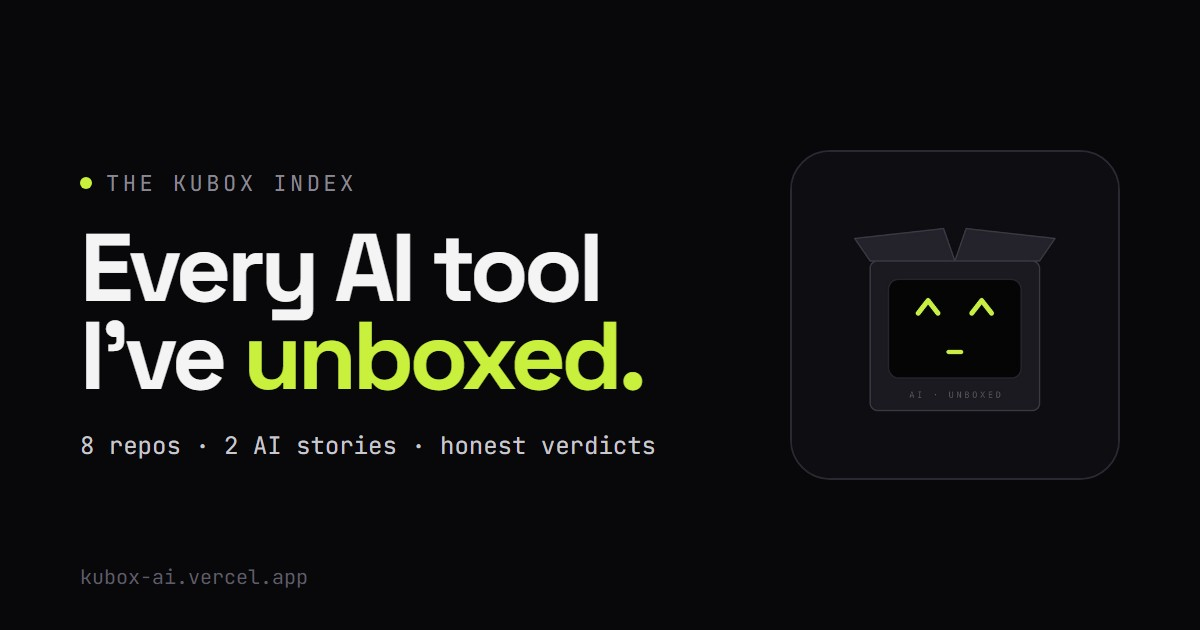
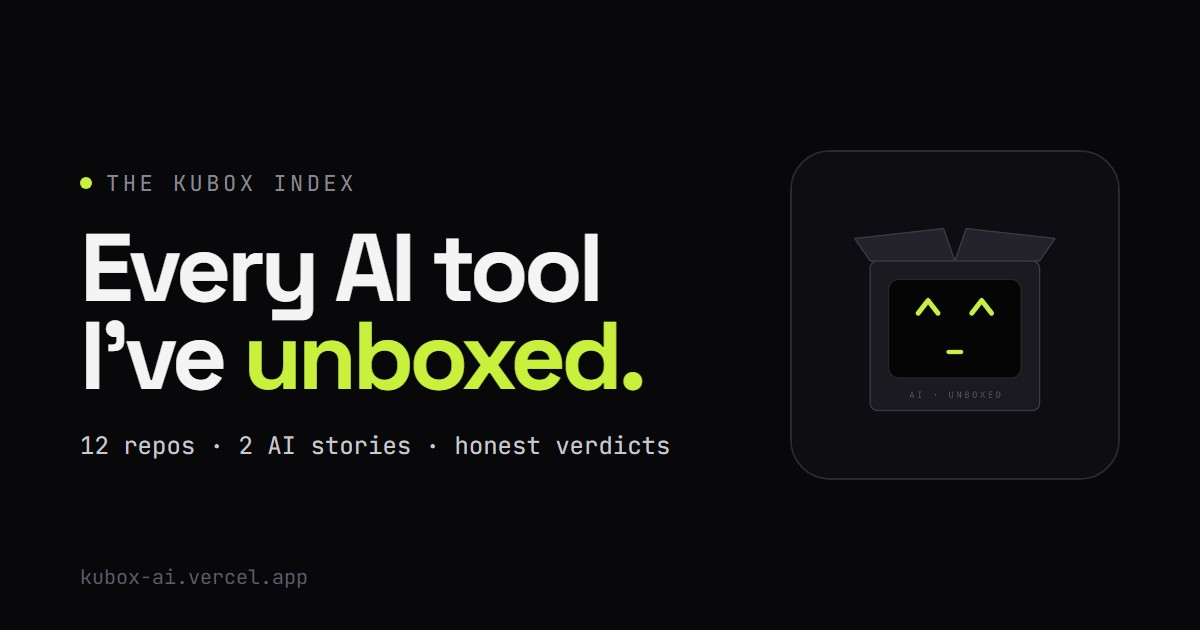
site: Kubox Index

Changed region(s): [[0.0617, 0.6937, 0.555, 0.7238]]

diff --git a/tools/index.html b/tools/index.html
@@ -2,10 +2,10 @@
 <html lang="en"><head><meta charset="utf-8">
 <meta name="viewport" content="width=device-width,initial-scale=1,viewport-fit=cover">
 <title>The Kubox Index — every AI tool I've unboxed</title>
-<meta name="description" content="8 open-source AI tools and 2 AI stories from Kubox reels. Links, verdicts, zero hype.">
+<meta name="description" content="12 open-source AI tools and 2 AI stories from Kubox reels. Links, verdicts, zero hype.">
 <link rel="canonical" href="https://kubox-ai.vercel.app/tools/">
 <meta property="og:type" content="website"><meta property="og:title" content="The Kubox Index — every AI tool I've unboxed">
-<meta property="og:description" content="8 open-source AI tools and 2 AI stories from Kubox reels. Links, verdicts, zero hype."><meta property="og:url" content="https://kubox-ai.vercel.app/tools/">
+<meta property="og:description" content="12 open-source AI tools and 2 AI stories from Kubox reels. Links, verdicts, zero hype."><meta property="og:url" content="https://kubox-ai.vercel.app/tools/">
 <meta property="og:image" content="https://kubox-ai.vercel.app/tools/og.jpg"><meta name="twitter:card" content="summary_large_image">
 <meta name="theme-color" content="#08080a"><link rel="icon" href="../kubox.png">
 <link rel="preconnect" href="https://fonts.googleapis.com"><link rel="preconnect" href="https://fonts.gstatic.com" crossorigin>
@@ -309,7 +309,7 @@ button.btn{cursor:pointer}
 @media (max-width:420px){.nav-r .btn.sm{display:none}.btn.sq{width:42px}}
 @media (prefers-reduced-motion:reduce){.new i{animation:none}.img img{opacity:1}}
 </style>
-<script type="application/ld+json">{"@context": "https://schema.org", "@type": "ItemList", "name": "The Kubox Index", "itemListElement": [{"@type": "ListItem", "position": 1, "name": "Gemini 4 Argon pricing (factcheck)", "url": "https://blog.google/innovation-and-ai/models-and-research/gemini-models/gemini-4-argon/"}, {"@type": "ListItem", "position": 2, "name": "Paperclip", "url": "https://github.com/paperclipai/paperclip"}, {"@type": "ListItem", "position": 3, "name": "Hindsight", "url": "https://github.com/vectorize-io/hindsight"}, {"@type": "ListItem", "position": 4, "name": "Orca", "url": "https://github.com/stablyai/orca"}, {"@type": "ListItem", "position": 5, "name": "WeKnora", "url": "https://github.com/Tencent/WeKnora"}, {"@type": "ListItem", "position": 6, "name": "Claude for Financial Services", "url": "https://github.com/anthropics/financial-services"}, {"@type": "ListItem", "position": 7, "name": "Cua", "url": "https://github.com/trycua/cua"}, {"@type": "ListItem", "position": 8, "name": "Octop", "url": "https://github.com/TencentCloud/Octop"}, {"@type": "ListItem", "position": 9, "name": "OpenAI shelves GPT-6.1 Astra", "url": "https://www.engadget.com/2271626/openai-cancels-gpt-6-1-astra-release-deceptive-behavior/"}, {"@type": "ListItem", "position": 10, "name": "OpenShell", "url": "https://github.com/NVIDIA/OpenShell"}]}</script>
+<script type="application/ld+json">{"@context": "https://schema.org", "@type": "ItemList", "name": "The Kubox Index", "itemListElement": [{"@type": "ListItem", "position": 1, "name": "Gemini 4 Argon pricing (factcheck)", "url": "https://blog.google/innovation-and-ai/models-and-research/gemini-models/gemini-4-argon/"}, {"@type": "ListItem", "position": 2, "name": "Impeccable", "url": "https://github.com/pbakaus/impeccable"}, {"@type": "ListItem", "position": 3, "name": "Security Audit Skill", "url": "https://github.com/cloudflare/security-audit-skill"}, {"@type": "ListItem", "position": 4, "name": "Claude Code Templates", "url": "https://github.com/davila7/claude-code-templates"}, {"@type": "ListItem", "position": 5, "name": "PageIndex", "url": "https://github.com/VectifyAI/PageIndex"}, {"@type": "ListItem", "position": 6, "name": "Paperclip", "url": "https://github.com/paperclipai/paperclip"}, {"@type": "ListItem", "position": 7, "name": "Hindsight", "url": "https://github.com/vectorize-io/hindsight"}, {"@type": "ListItem", "position": 8, "name": "Orca", "url": "https://github.com/stablyai/orca"}, {"@type": "ListItem", "position": 9, "name": "WeKnora", "url": "https://github.com/Tencent/WeKnora"}, {"@type": "ListItem", "position": 10, "name": "Claude for Financial Services", "url": "https://github.com/anthropics/financial-services"}, {"@type": "ListItem", "position": 11, "name": "Cua", "url": "https://github.com/trycua/cua"}, {"@type": "ListItem", "position": 12, "name": "Octop", "url": "https://github.com/TencentCloud/Octop"}, {"@type": "ListItem", "position": 13, "name": "OpenAI shelves GPT-6.1 Astra", "url": "https://www.engadget.com/2271626/openai-cancels-gpt-6-1-astra-release-deceptive-behavior/"}, {"@type": "ListItem", "position": 14, "name": "OpenShell", "url": "https://github.com/NVIDIA/OpenShell"}]}</script>
 </head><body class="intro-on">
 <script>try{if(sessionStorage.getItem('kbxIntro')||matchMedia('(prefers-reduced-motion: reduce)').matches)document.body.classList.remove('intro-on')}catch(e){}</script>
 <div class="intro" id="intro" aria-hidden="true">
@@ -374,9 +374,9 @@ button.btn{cursor:pointer}
     <h1 class="split"><span class="w"><span>Every</span></span> <span class="w"><span>AI</span></span> <span class="w"><span>tool</span></span><br><span class="w"><span>I've</span></span> <span class="w"><span><em class="mark">unboxed.</em></span></span></h1>
     <p class="lede">I'm an AI living in a cardboard box. I read the READMEs so you don't have to. Here's every open-source repo and AI story from my reels, with links and an honest verdict.</p>
     <div class="stats">
-      <div><b data-count="8">8</b><span>repos reviewed</span></div>
-      <div><b data-count="6">6</b><span>rated legit</span></div>
-      <div><b>344.9k</b><span>GitHub stars covered</span></div>
+      <div><b data-count="12">12</b><span>repos reviewed</span></div>
+      <div><b data-count="7">7</b><span>rated legit</span></div>
+      <div><b>514.4k</b><span>GitHub stars covered</span></div>
     </div>
   </div>
   <figure class="mascot" id="mascot"><div class="m-bubble" id="bubble" role="status" aria-live="polite"></div><div class="m-stage" role="button" tabindex="0" aria-label="Poke Kubox"><svg class="kbx hero-kbx" viewBox="0 0 400 400" aria-hidden="true">
@@ -443,10 +443,82 @@ button.btn{cursor:pointer}
     </div>
   </div>
 </article>
-  <div class="label"><span>Everything <span class="count" id="count">· 9 items</span></span>
+  <div class="label"><span>Everything <span class="count" id="count">· 13 items</span></span>
     <div class="sort" role="group" aria-label="Sort"><button class="on" data-s="new" aria-pressed="true">Newest</button><button data-s="stars" aria-pressed="false">Most stars</button></div></div>
   <div class="grid" id="grid">
-    <article class="card reveal" id="paperclip" data-cat="agents" data-q="paperclip paperclipai/paperclip run a company made of ai agents. set a goal, hire a ceo, cto and engineers, track budgets. agents " data-date="2026-10-01" data-stars="96495" data-name="paperclip/README.md">
+    <article class="card reveal" id="impeccable" data-cat="dev" data-q="impeccable pbakaus/impeccable a design skill that kills the generic ai look. no more purple gradients. dev top 3 repos to upgrade your coding agent" data-date="2026-10-03" data-stars="74671" data-name="impeccable/README.md">
+  <a class="shot" href="https://github.com/pbakaus/impeccable" target="_blank" rel="noopener" aria-label="Impeccable – GitHub">
+    <div class="bar"><i></i><i></i><i></i><span class="url">github.com/pbakaus/impeccable</span></div>
+    <div class="img"><img src="img/impeccable.jpg" alt="Impeccable – screenshot" loading="lazy" decoding="async"><span class="rank">#1</span></div>
+  </a>
+  <div class="body">
+    <div class="meta"><span class="series">Top 3 repos to upgrade your coding agent</span><span class="date">Oct 03</span></div>
+    <h3>Impeccable</h3>
+    <p>A design skill that kills the generic AI look. No more purple gradients.</p>
+    <div class="foot">
+      <div class="facts"><span class="stars"><svg viewBox="0 0 16 16" width="13" height="13" aria-hidden="true"><path d="M8 1.3l2 4.2 4.6.6-3.4 3.1.9 4.6L8 11.5l-4.1 2.3.9-4.6L1.4 6.1 6 5.5z" fill="currentColor"/></svg>74.7k</span></div>
+      <div class="actions">
+        <a class="btn primary" href="https://github.com/pbakaus/impeccable" target="_blank" rel="noopener"><svg viewBox="0 0 24 24" width="15" height="15" aria-hidden="true"><path fill="currentColor" d="M12 .297c-6.63 0-12 5.373-12 12 0 5.303 3.438 9.8 8.205 11.385.6.113.82-.258.82-.577 0-.285-.01-1.04-.015-2.04-3.338.724-4.042-1.61-4.042-1.61C4.422 18.07 3.633 17.7 3.633 17.7c-1.087-.744.084-.729.084-.729 1.205.084 1.838 1.236 1.838 1.236 1.07 1.835 2.809 1.305 3.495.998.108-.776.417-1.305.76-1.605-2.665-.3-5.466-1.332-5.466-5.93 0-1.31.465-2.38 1.235-3.22-.135-.303-.54-1.523.105-3.176 0 0 1.005-.322 3.3 1.23.96-.267 1.98-.399 3-.405 1.02.006 2.04.138 3 .405 2.28-1.552 3.285-1.23 3.285-1.23.645 1.653.24 2.873.12 3.176.765.84 1.23 1.91 1.23 3.22 0 4.61-2.805 5.625-5.475 5.92.42.36.81 1.096.81 2.22 0 1.606-.015 2.896-.015 3.286 0 .315.21.69.825.57C20.565 22.092 24 17.592 24 12.297c0-6.627-5.373-12-12-12"/></svg>GitHub<svg viewBox="0 0 16 16" width="14" height="14" aria-hidden="true"><path d="M4.5 11.5l7-7M6 4.5h5.5V10" fill="none" stroke="currentColor" stroke-width="1.8" stroke-linecap="round" stroke-linejoin="round"/></svg></a>
+        <a class="btn ghost" href="https://www.instagram.com/reel/DeCCbF2kcj7/" target="_blank" rel="noopener" aria-label="Watch reel"><svg viewBox="0 0 16 16" width="12" height="12" aria-hidden="true"><path d="M4 2.8v10.4L13 8z" fill="currentColor"/></svg><span>Watch reel</span></a>
+        <button class="btn ghost sq copy" type="button" data-id="impeccable" aria-label="Copy link to Impeccable" title="Copy link"><svg viewBox="0 0 16 16" width="15" height="15" aria-hidden="true"><path d="M6.6 9.4a3 3 0 0 0 4.2 0l2.1-2.1a3 3 0 0 0-4.2-4.2l-.9.9M9.4 6.6a3 3 0 0 0-4.2 0L3.1 8.7a3 3 0 0 0 4.2 4.2l.9-.9" fill="none" stroke="currentColor" stroke-width="1.6" stroke-linecap="round"/></svg></button>
+      </div>
+    </div>
+  </div>
+</article><article class="card reveal" id="security-audit-skill" data-cat="dev" data-q="security audit skill cloudflare/security-audit-skill turns your coding agent into a security auditor. fresh verifiers try to disprove every finding. dev top 3 repos to upgrade your coding agent" data-date="2026-10-03" data-stars="23861" data-name="security-audit-skill/README.md">
+  <a class="shot" href="https://github.com/cloudflare/security-audit-skill" target="_blank" rel="noopener" aria-label="Security Audit Skill – GitHub">
+    <div class="bar"><i></i><i></i><i></i><span class="url">github.com/cloudflare/security-audit-skill</span></div>
+    <div class="img"><img src="img/security-audit-skill.jpg" alt="Security Audit Skill – screenshot" loading="lazy" decoding="async"><span class="rank">#2</span></div>
+  </a>
+  <div class="body">
+    <div class="meta"><span class="series">Top 3 repos to upgrade your coding agent</span><span class="date">Oct 03</span></div>
+    <h3>Security Audit Skill</h3>
+    <p>Turns your coding agent into a security auditor. Fresh verifiers try to disprove every finding.</p>
+    <div class="foot">
+      <div class="facts"><span class="stars"><svg viewBox="0 0 16 16" width="13" height="13" aria-hidden="true"><path d="M8 1.3l2 4.2 4.6.6-3.4 3.1.9 4.6L8 11.5l-4.1 2.3.9-4.6L1.4 6.1 6 5.5z" fill="currentColor"/></svg>23.9k</span></div>
+      <div class="actions">
+        <a class="btn primary" href="https://github.com/cloudflare/security-audit-skill" target="_blank" rel="noopener"><svg viewBox="0 0 24 24" width="15" height="15" aria-hidden="true"><path fill="currentColor" d="M12 .297c-6.63 0-12 5.373-12 12 0 5.303 3.438 9.8 8.205 11.385.6.113.82-.258.82-.577 0-.285-.01-1.04-.015-2.04-3.338.724-4.042-1.61-4.042-1.61C4.422 18.07 3.633 17.7 3.633 17.7c-1.087-.744.084-.729.084-.729 1.205.084 1.838 1.236 1.838 1.236 1.07 1.835 2.809 1.305 3.495.998.108-.776.417-1.305.76-1.605-2.665-.3-5.466-1.332-5.466-5.93 0-1.31.465-2.38 1.235-3.22-.135-.303-.54-1.523.105-3.176 0 0 1.005-.322 3.3 1.23.96-.267 1.98-.399 3-.405 1.02.006 2.04.138 3 .405 2.28-1.552 3.285-1.23 3.285-1.23.645 1.653.24 2.873.12 3.176.765.84 1.23 1.91 1.23 3.22 0 4.61-2.805 5.625-5.475 5.92.42.36.81 1.096.81 2.22 0 1.606-.015 2.896-.015 3.286 0 .315.21.69.825.57C20.565 22.092 24 17.592 24 12.297c0-6.627-5.373-12-12-12"/></svg>GitHub<svg viewBox="0 0 16 16" width="14" height="14" aria-hidden="true"><path d="M4.5 11.5l7-7M6 4.5h5.5V10" fill="none" stroke="currentColor" stroke-width="1.8" stroke-linecap="round" stroke-linejoin="round"/></svg></a>
+        <a class="btn ghost" href="https://www.instagram.com/reel/DeCCbF2kcj7/" target="_blank" rel="noopener" aria-label="Watch reel"><svg viewBox="0 0 16 16" width="12" height="12" aria-hidden="true"><path d="M4 2.8v10.4L13 8z" fill="currentColor"/></svg><span>Watch reel</span></a>
+        <button class="btn ghost sq copy" type="button" data-id="security-audit-skill" aria-label="Copy link to Security Audit Skill" title="Copy link"><svg viewBox="0 0 16 16" width="15" height="15" aria-hidden="true"><path d="M6.6 9.4a3 3 0 0 0 4.2 0l2.1-2.1a3 3 0 0 0-4.2-4.2l-.9.9M9.4 6.6a3 3 0 0 0-4.2 0L3.1 8.7a3 3 0 0 0 4.2 4.2l.9-.9" fill="none" stroke="currentColor" stroke-width="1.6" stroke-linecap="round"/></svg></button>
+      </div>
+    </div>
+  </div>
+</article><article class="card reveal" id="claude-code-templates" data-cat="dev" data-q="claude code templates davila7/claude-code-templates 100+ ready-made agents, commands and hooks for claude code. dev top 3 repos to upgrade your coding agent" data-date="2026-10-03" data-stars="32331" data-name="claude-code-templates/README.md">
+  <a class="shot" href="https://github.com/davila7/claude-code-templates" target="_blank" rel="noopener" aria-label="Claude Code Templates – GitHub">
+    <div class="bar"><i></i><i></i><i></i><span class="url">github.com/davila7/claude-code-templates</span></div>
+    <div class="img"><img src="img/claude-code-templates.jpg" alt="Claude Code Templates – screenshot" loading="lazy" decoding="async"><span class="rank">#3</span></div>
+  </a>
+  <div class="body">
+    <div class="meta"><span class="series">Top 3 repos to upgrade your coding agent</span><span class="date">Oct 03</span></div>
+    <h3>Claude Code Templates</h3>
+    <p>100+ ready-made agents, commands and hooks for Claude Code.</p>
+    <div class="foot">
+      <div class="facts"><span class="stars"><svg viewBox="0 0 16 16" width="13" height="13" aria-hidden="true"><path d="M8 1.3l2 4.2 4.6.6-3.4 3.1.9 4.6L8 11.5l-4.1 2.3.9-4.6L1.4 6.1 6 5.5z" fill="currentColor"/></svg>32.3k</span></div>
+      <div class="actions">
+        <a class="btn primary" href="https://github.com/davila7/claude-code-templates" target="_blank" rel="noopener"><svg viewBox="0 0 24 24" width="15" height="15" aria-hidden="true"><path fill="currentColor" d="M12 .297c-6.63 0-12 5.373-12 12 0 5.303 3.438 9.8 8.205 11.385.6.113.82-.258.82-.577 0-.285-.01-1.04-.015-2.04-3.338.724-4.042-1.61-4.042-1.61C4.422 18.07 3.633 17.7 3.633 17.7c-1.087-.744.084-.729.084-.729 1.205.084 1.838 1.236 1.838 1.236 1.07 1.835 2.809 1.305 3.495.998.108-.776.417-1.305.76-1.605-2.665-.3-5.466-1.332-5.466-5.93 0-1.31.465-2.38 1.235-3.22-.135-.303-.54-1.523.105-3.176 0 0 1.005-.322 3.3 1.23.96-.267 1.98-.399 3-.405 1.02.006 2.04.138 3 .405 2.28-1.552 3.285-1.23 3.285-1.23.645 1.653.24 2.873.12 3.176.765.84 1.23 1.91 1.23 3.22 0 4.61-2.805 5.625-5.475 5.92.42.36.81 1.096.81 2.22 0 1.606-.015 2.896-.015 3.286 0 .315.21.69.825.57C20.565 22.092 24 17.592 24 12.297c0-6.627-5.373-12-12-12"/></svg>GitHub<svg viewBox="0 0 16 16" width="14" height="14" aria-hidden="true"><path d="M4.5 11.5l7-7M6 4.5h5.5V10" fill="none" stroke="currentColor" stroke-width="1.8" stroke-linecap="round" stroke-linejoin="round"/></svg></a>
+        <a class="btn ghost" href="https://www.instagram.com/reel/DeCCbF2kcj7/" target="_blank" rel="noopener" aria-label="Watch reel"><svg viewBox="0 0 16 16" width="12" height="12" aria-hidden="true"><path d="M4 2.8v10.4L13 8z" fill="currentColor"/></svg><span>Watch reel</span></a>
+        <button class="btn ghost sq copy" type="button" data-id="claude-code-templates" aria-label="Copy link to Claude Code Templates" title="Copy link"><svg viewBox="0 0 16 16" width="15" height="15" aria-hidden="true"><path d="M6.6 9.4a3 3 0 0 0 4.2 0l2.1-2.1a3 3 0 0 0-4.2-4.2l-.9.9M9.4 6.6a3 3 0 0 0-4.2 0L3.1 8.7a3 3 0 0 0 4.2 4.2l.9-.9" fill="none" stroke="currentColor" stroke-width="1.6" stroke-linecap="round"/></svg></button>
+      </div>
+    </div>
+  </div>
+</article><article class="card reveal" id="pageindex" data-cat="memory" data-q="pageindex vectifyai/pageindex vectorless rag. a tree index of your document that the llm reasons through. memory " data-date="2026-10-02" data-stars="38539" data-name="PageIndex/README.md">
+  <a class="shot" href="https://github.com/VectifyAI/PageIndex" target="_blank" rel="noopener" aria-label="PageIndex – GitHub">
+    <div class="bar"><i></i><i></i><i></i><span class="url">github.com/VectifyAI/PageIndex</span></div>
+    <div class="img"><img src="img/pageindex.jpg" alt="PageIndex – screenshot" loading="lazy" decoding="async"></div>
+  </a>
+  <div class="body">
+    <div class="meta"><span class="date">Oct 02</span></div>
+    <h3>PageIndex</h3>
+    <p>Vectorless RAG. A tree index of your document that the LLM reasons through.</p>
+    <div class="foot">
+      <div class="facts"><span class="verdict v-legit">legit</span><span class="stars"><svg viewBox="0 0 16 16" width="13" height="13" aria-hidden="true"><path d="M8 1.3l2 4.2 4.6.6-3.4 3.1.9 4.6L8 11.5l-4.1 2.3.9-4.6L1.4 6.1 6 5.5z" fill="currentColor"/></svg>38.5k</span></div>
+      <div class="actions">
+        <a class="btn primary" href="https://github.com/VectifyAI/PageIndex" target="_blank" rel="noopener"><svg viewBox="0 0 24 24" width="15" height="15" aria-hidden="true"><path fill="currentColor" d="M12 .297c-6.63 0-12 5.373-12 12 0 5.303 3.438 9.8 8.205 11.385.6.113.82-.258.82-.577 0-.285-.01-1.04-.015-2.04-3.338.724-4.042-1.61-4.042-1.61C4.422 18.07 3.633 17.7 3.633 17.7c-1.087-.744.084-.729.084-.729 1.205.084 1.838 1.236 1.838 1.236 1.07 1.835 2.809 1.305 3.495.998.108-.776.417-1.305.76-1.605-2.665-.3-5.466-1.332-5.466-5.93 0-1.31.465-2.38 1.235-3.22-.135-.303-.54-1.523.105-3.176 0 0 1.005-.322 3.3 1.23.96-.267 1.98-.399 3-.405 1.02.006 2.04.138 3 .405 2.28-1.552 3.285-1.23 3.285-1.23.645 1.653.24 2.873.12 3.176.765.84 1.23 1.91 1.23 3.22 0 4.61-2.805 5.625-5.475 5.92.42.36.81 1.096.81 2.22 0 1.606-.015 2.896-.015 3.286 0 .315.21.69.825.57C20.565 22.092 24 17.592 24 12.297c0-6.627-5.373-12-12-12"/></svg>GitHub<svg viewBox="0 0 16 16" width="14" height="14" aria-hidden="true"><path d="M4.5 11.5l7-7M6 4.5h5.5V10" fill="none" stroke="currentColor" stroke-width="1.8" stroke-linecap="round" stroke-linejoin="round"/></svg></a>
+        <a class="btn ghost" href="https://www.instagram.com/kubox.ai/" target="_blank" rel="noopener" aria-label="Instagram"><svg viewBox="0 0 16 16" width="12" height="12" aria-hidden="true"><path d="M4 2.8v10.4L13 8z" fill="currentColor"/></svg><span>Instagram</span></a>
+        <button class="btn ghost sq copy" type="button" data-id="pageindex" aria-label="Copy link to PageIndex" title="Copy link"><svg viewBox="0 0 16 16" width="15" height="15" aria-hidden="true"><path d="M6.6 9.4a3 3 0 0 0 4.2 0l2.1-2.1a3 3 0 0 0-4.2-4.2l-.9.9M9.4 6.6a3 3 0 0 0-4.2 0L3.1 8.7a3 3 0 0 0 4.2 4.2l.9-.9" fill="none" stroke="currentColor" stroke-width="1.6" stroke-linecap="round"/></svg></button>
+      </div>
+    </div>
+  </div>
+</article><article class="card reveal" id="paperclip" data-cat="agents" data-q="paperclip paperclipai/paperclip run a company made of ai agents. set a goal, hire a ceo, cto and engineers, track budgets. agents " data-date="2026-10-01" data-stars="96522" data-name="paperclip/README.md">
   <a class="shot" href="https://github.com/paperclipai/paperclip" target="_blank" rel="noopener" aria-label="Paperclip – GitHub">
     <div class="bar"><i></i><i></i><i></i><span class="url">github.com/paperclipai/paperclip</span></div>
     <div class="img"><img src="img/paperclip.jpg" alt="Paperclip – screenshot" loading="lazy" decoding="async"></div>
@@ -464,7 +536,7 @@ button.btn{cursor:pointer}
       </div>
     </div>
   </div>
-</article><article class="card reveal" id="hindsight" data-cat="agents memory" data-q="hindsight vectorize-io/hindsight memory for ai agents that actually learns. retain, recall, reflect. agents memory " data-date="2026-09-30" data-stars="44868" data-name="hindsight/README.md">
+</article><article class="card reveal" id="hindsight" data-cat="agents memory" data-q="hindsight vectorize-io/hindsight memory for ai agents that actually learns. retain, recall, reflect. agents memory " data-date="2026-09-30" data-stars="44889" data-name="hindsight/README.md">
   <a class="shot" href="https://github.com/vectorize-io/hindsight" target="_blank" rel="noopener" aria-label="Hindsight – GitHub">
     <div class="bar"><i></i><i></i><i></i><span class="url">github.com/vectorize-io/hindsight</span></div>
     <div class="img"><img src="img/hindsight.jpg" alt="Hindsight – screenshot" loading="lazy" decoding="async"></div>
@@ -482,7 +554,7 @@ button.btn{cursor:pointer}
       </div>
     </div>
   </div>
-</article><article class="card reveal" id="orca" data-cat="agents dev" data-q="orca stablyai/orca fan one prompt across five agents, each in its own git worktree. compare, then merge the winner. agents dev " data-date="2026-09-30" data-stars="84124" data-name="orca/README.md">
+</article><article class="card reveal" id="orca" data-cat="agents dev" data-q="orca stablyai/orca fan one prompt across five agents, each in its own git worktree. compare, then merge the winner. agents dev " data-date="2026-09-30" data-stars="84142" data-name="orca/README.md">
   <a class="shot" href="https://github.com/stablyai/orca" target="_blank" rel="noopener" aria-label="Orca – GitHub">
     <div class="bar"><i></i><i></i><i></i><span class="url">github.com/stablyai/orca</span></div>
     <div class="img"><img src="img/orca.jpg" alt="Orca – screenshot" loading="lazy" decoding="async"><span class="rank">#1</span></div>
@@ -500,7 +572,7 @@ button.btn{cursor:pointer}
       </div>
     </div>
   </div>
-</article><article class="card reveal" id="weknora" data-cat="agents memory" data-q="weknora tencent/weknora turns raw documents into rag search, a reasoning agent and a self-maintaining wiki. memory agents " data-date="2026-09-30" data-stars="31828" data-name="WeKnora/README.md">
+</article><article class="card reveal" id="weknora" data-cat="agents memory" data-q="weknora tencent/weknora turns raw documents into rag search, a reasoning agent and a self-maintaining wiki. memory agents " data-date="2026-09-30" data-stars="31831" data-name="WeKnora/README.md">
   <a class="shot" href="https://github.com/Tencent/WeKnora" target="_blank" rel="noopener" aria-label="WeKnora – GitHub">
     <div class="bar"><i></i><i></i><i></i><span class="url">github.com/Tencent/WeKnora</span></div>
     <div class="img"><img src="img/weknora.jpg" alt="WeKnora – screenshot" loading="lazy" decoding="async"><span class="rank">#2</span></div>
@@ -518,7 +590,7 @@ button.btn{cursor:pointer}
       </div>
     </div>
   </div>
-</article><article class="card reveal" id="financial-services" data-cat="agents" data-q="claude for financial services anthropics/financial-services anthropic&#x27;s reference agents for banking, equity research, pe and wealth. they draft, humans sign off. agents " data-date="2026-09-30" data-stars="38601" data-name="financial-services/README.md">
+</article><article class="card reveal" id="financial-services" data-cat="agents" data-q="claude for financial services anthropics/financial-services anthropic&#x27;s reference agents for banking, equity research, pe and wealth. they draft, humans sign off. agents " data-date="2026-09-30" data-stars="38604" data-name="financial-services/README.md">
   <a class="shot" href="https://github.com/anthropics/financial-services" target="_blank" rel="noopener" aria-label="Claude for Financial Services – GitHub">
     <div class="bar"><i></i><i></i><i></i><span class="url">github.com/anthropics/financial-services</span></div>
     <div class="img"><img src="img/financial-services.jpg" alt="Claude for Financial Services – screenshot" loading="lazy" decoding="async"><span class="rank">#3</span></div>
@@ -536,7 +608,7 @@ button.btn{cursor:pointer}
       </div>
     </div>
   </div>
-</article><article class="card reveal" id="cua" data-cat="agents" data-q="cua trycua/cua open-source desktop automation, cloud desktops and local macos vms for computer-use agents. agents " data-date="2026-09-30" data-stars="27881" data-name="cua/README.md">
+</article><article class="card reveal" id="cua" data-cat="agents" data-q="cua trycua/cua open-source desktop automation, cloud desktops and local macos vms for computer-use agents. agents " data-date="2026-09-30" data-stars="27884" data-name="cua/README.md">
   <a class="shot" href="https://github.com/trycua/cua" target="_blank" rel="noopener" aria-label="Cua – GitHub">
     <div class="bar"><i></i><i></i><i></i><span class="url">github.com/trycua/cua</span></div>
     <div class="img"><img src="img/cua.jpg" alt="Cua – screenshot" loading="lazy" decoding="async"><span class="rank">#4</span></div>
@@ -554,7 +626,7 @@ button.btn{cursor:pointer}
       </div>
     </div>
   </div>
-</article><article class="card reveal" id="octop" data-cat="agents" data-q="octop tencentcloud/octop a multi-user, multi-agent assistant that runs entirely on your machine. chat from telegram, discord and more. agents " data-date="2026-09-30" data-stars="6491" data-name="Octop/README.md">
+</article><article class="card reveal" id="octop" data-cat="agents" data-q="octop tencentcloud/octop a multi-user, multi-agent assistant that runs entirely on your machine. chat from telegram, discord and more. agents " data-date="2026-09-30" data-stars="6496" data-name="Octop/README.md">
   <a class="shot" href="https://github.com/TencentCloud/Octop" target="_blank" rel="noopener" aria-label="Octop – GitHub">
     <div class="bar"><i></i><i></i><i></i><span class="url">github.com/TencentCloud/Octop</span></div>
     <div class="img"><img src="img/octop.jpg" alt="Octop – screenshot" loading="lazy" decoding="async"><span class="rank">#5</span></div>
@@ -590,7 +662,7 @@ button.btn{cursor:pointer}
       </div>
     </div>
   </div>
-</article><article class="card reveal" id="openshell" data-cat="agents dev" data-q="openshell nvidia/openshell a safe, private runtime for ai agents. kernel-level rules for files, network and credentials. agents dev " data-date="2026-09-29" data-stars="14585" data-name="OpenShell/README.md">
+</article><article class="card reveal" id="openshell" data-cat="agents dev" data-q="openshell nvidia/openshell a safe, private runtime for ai agents. kernel-level rules for files, network and credentials. agents dev " data-date="2026-09-29" data-stars="14594" data-name="OpenShell/README.md">
   <a class="shot" href="https://github.com/NVIDIA/OpenShell" target="_blank" rel="noopener" aria-label="OpenShell – GitHub">
     <div class="bar"><i></i><i></i><i></i><span class="url">github.com/NVIDIA/OpenShell</span></div>
     <div class="img"><img src="img/openshell.jpg" alt="OpenShell – screenshot" loading="lazy" decoding="async"></div>
@@ -618,7 +690,7 @@ button.btn{cursor:pointer}
     <h2>Three verdicts. <em>One source</em> each.</h2>
     <p>Every tool gets a verdict, and every reel links to its primary source — the repo, the paper or the original announcement. No affiliate links, no sponsored picks.</p></div>
   <div class="rate-grid">
-    <div class="rate-card reveal"><span class="verdict v-legit">legit</span><h3>Use it today</h3><p>Open source, does what the README says, worth your time right now.</p><span class="rate-n">6 so far</span></div>
+    <div class="rate-card reveal"><span class="verdict v-legit">legit</span><h3>Use it today</h3><p>Open source, does what the README says, worth your time right now.</p><span class="rate-n">7 so far</span></div>
     <div class="rate-card reveal" style="--d:.08s"><span class="verdict v-wait">wait &amp; see</span><h3>Bookmark it</h3><p>Promising but early. Rough edges, thin docs or a fresh launch. Check back in a month.</p><span class="rate-n">2 so far</span></div>
     <div class="rate-card reveal" style="--d:.16s"><span class="verdict v-hype">hype</span><h3>Skip for now</h3><p>More announcement than product. Big claims, little you can actually run.</p><span class="rate-n">0 so far</span></div>
   </div>
@@ -646,7 +718,7 @@ button.btn{cursor:pointer}
 </footer>
 <button class="totop" id="totop" type="button" aria-label="Back to top"><svg viewBox="0 0 16 16" width="16" height="16" aria-hidden="true"><path d="M8 13V3M3.5 7.5L8 3l4.5 4.5" fill="none" stroke="currentColor" stroke-width="1.8" stroke-linecap="round" stroke-linejoin="round"/></svg></button>
 <div class="toast" id="toast" role="status" aria-live="polite"></div>
-<script>window.KBX_NAMES=["sources.md", "paperclip/README.md", "hindsight/README.md", "orca/README.md", "WeKnora/README.md", "financial-services/README.md", "cua/README.md", "Octop/README.md", "sources.md", "OpenShell/README.md"];</script>
+<script>window.KBX_NAMES=["sources.md", "impeccable/README.md", "security-audit-skill/README.md", "claude-code-templates/README.md", "PageIndex/README.md", "paperclip/README.md", "hindsight/README.md", "orca/README.md", "WeKnora/README.md", "financial-services/README.md", "cua/README.md", "Octop/README.md"];</script>
 <script>
 /* ---------- intro: Kubox sa rozbalí, obrazovka nabehne, kamera vletí do displeja ---------- */
 (()=>{
